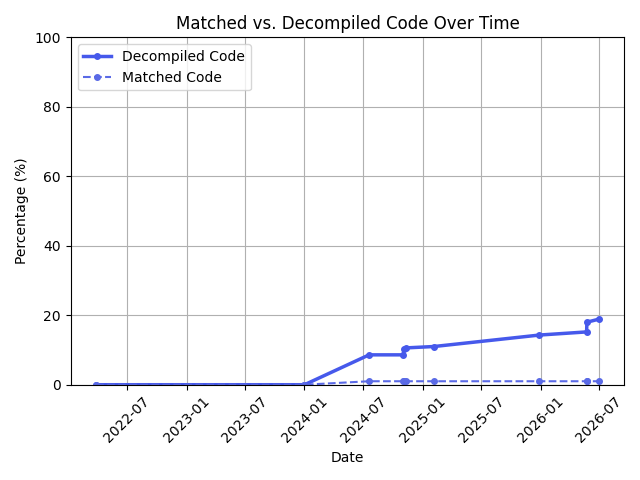
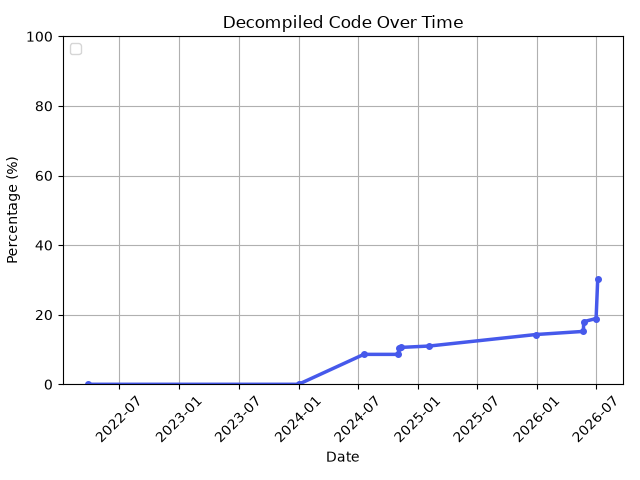
Update progress

diff --git a/scripts/generate-chart.py b/scripts/generate-chart.py
@@ -1,5 +1,8 @@
+import matplotlib
+matplotlib.use("Agg")  # headless: render to file, no display needed
 import matplotlib.pyplot as plt
 from datetime import datetime
+import os
 
 dates = [
   datetime(2022, 3, 27),
@@ -13,6 +16,7 @@ dates = [
   datetime(2026, 5, 23),
   datetime(2026, 5, 24),
   datetime(2026, 7, 1),
+  datetime(2026, 7, 6),
 ]
 
 decompiled_code = [
@@ -27,10 +31,12 @@ decompiled_code = [
   15.2,
   18.0,
   18.9,
+  30.3,
 ]
 matched_code = [
   0.0,
   0.0,   # same
+  1.0,
   1.0,
   1.0,
   1.0,
@@ -45,10 +51,10 @@ matched_code = [
 
 fig, ax = plt.subplots()
 
-ax.plot(dates, decompiled_code, label='Decompiled Code', color='#4659eb', marker='.', markersize=8, linewidth=2.5)
-ax.plot(dates, matched_code, label='Matched Code', color='#5a6ae6', marker='.', markersize=8, linestyle='--', linewidth=1.5)
+ax.plot(dates, decompiled_code, color='#4659eb', marker='.', markersize=8, linewidth=2.5)
+# ax.plot(dates, matched_code, label='Matched Code', color='#5a6ae6', marker='.', markersize=8, linestyle='--', linewidth=1.5)
 
-ax.set_title("Matched vs. Decompiled Code Over Time")
+ax.set_title("Decompiled Code Over Time")
 ax.set_xlabel("Date")
 ax.set_ylabel("Percentage (%)")
 ax.legend(loc='upper left')
@@ -58,4 +64,7 @@ plt.ylim([0, 100])
 plt.grid()
 
 
-plt.show()
+out_dir = os.path.dirname(os.path.dirname(os.path.abspath(__file__)))
+path = os.path.join(out_dir, "progress.png")
+plt.savefig(path)
+print(f"Wrote {path}")
